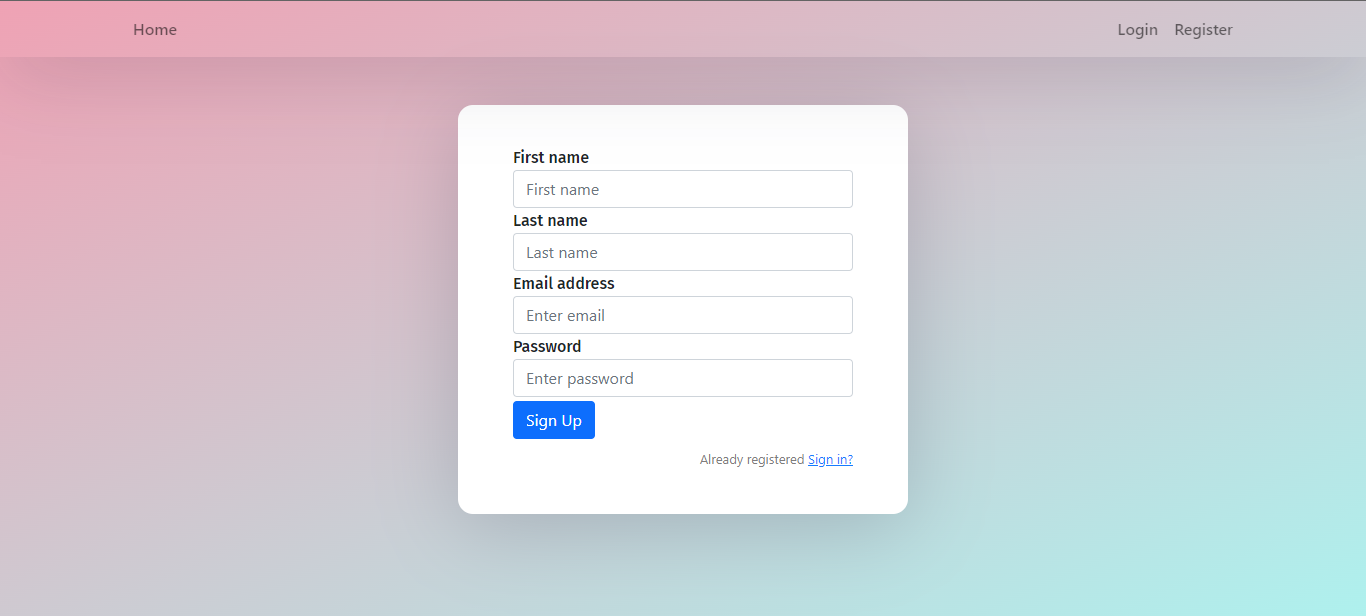
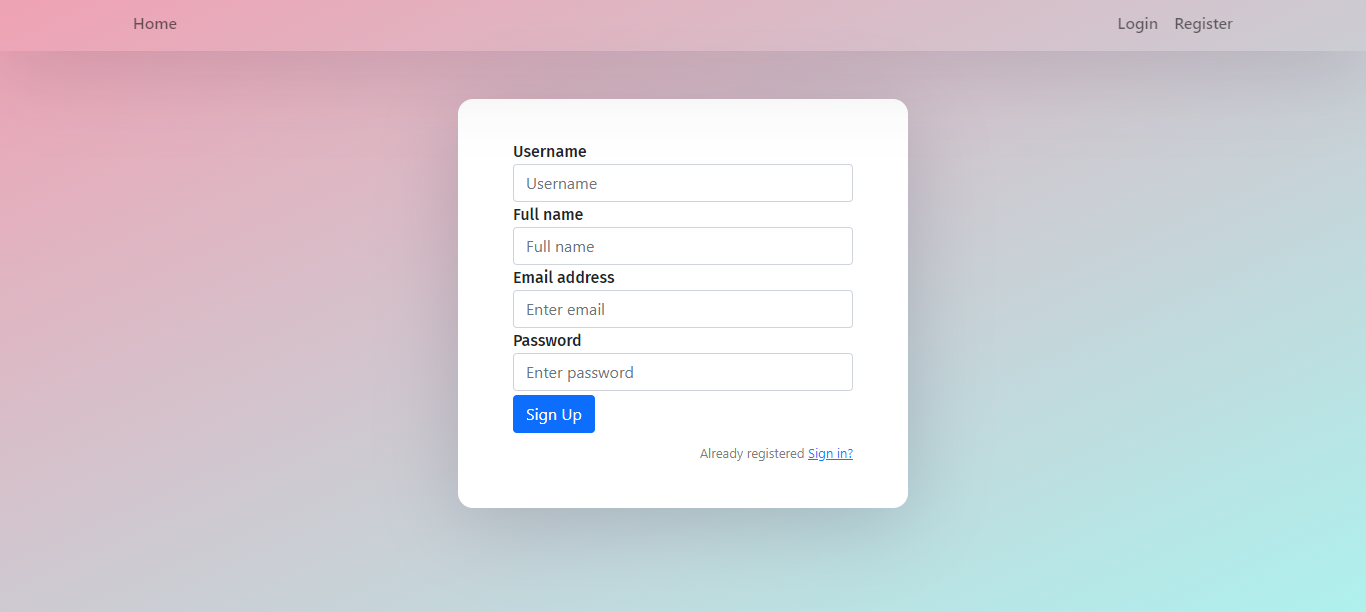
Login and Register Images

diff --git a/Frontend/src/Components/Register.js b/Frontend/src/Components/Register.js
@@ -13,12 +13,12 @@ function Register() {
         <form>
                
                 <div className="form-group">
-                    <label>First name</label>
-                    <input type="text" className="form-control" placeholder="First name" />
+                    <label>Username</label>
+                    <input type="text" className="form-control" placeholder="Username" />
                 </div>
                 <div className="form-group">
-                    <label>Last name</label>
-                    <input type="text" className="form-control" placeholder="Last name" />
+                    <label>Full name</label>
+                    <input type="text" className="form-control" placeholder="Full name" />
                 </div>
                 <div className="form-group">
                     <label>Email address</label>
